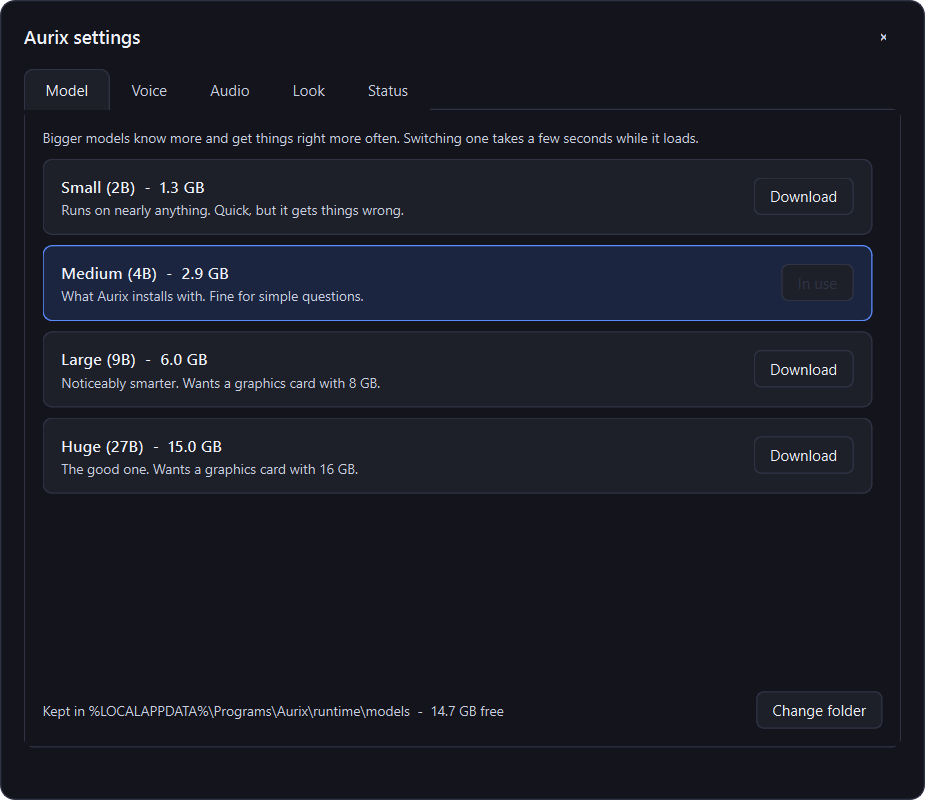
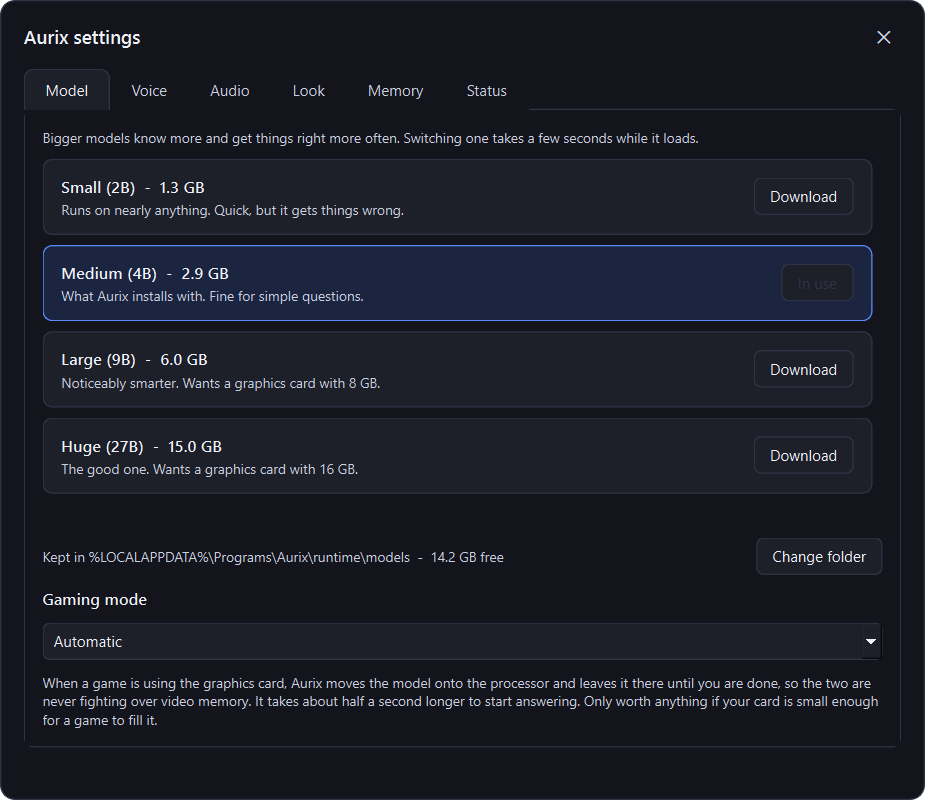
Tidy up for 0.3.3
A failed switch used to leave the flag saying the model was somewhere it
was not, so nothing would ever try to put it back. It reverts now and
the watcher has another go a few seconds later.

README covers fun mode, the memory and gaming mode, and the pictures are
regenerated so they show the tabs that actually exist.

shoot_docs said "Hey Jarvis" hardcoded, which would have put the wrong
wake word in the README - it reads it out of config now. It also points
the memory notes at a made up file first, because that script runs on a
machine that has been using Aurix and whatever it had learned about me
would have gone straight onto the internet.

diff --git a/aurix/brain.py b/aurix/brain.py
@@ -443,9 +443,20 @@ def use_the_card(wanted: bool) -> None:
     global _on_card
     if wanted == _on_card:
         return
+
+    was = _on_card
     _on_card = wanted
     print(f"  moving the model {'onto the card' if wanted else 'off the card'}")
-    restart()
+    try:
+        restart()
+    except Exception:
+        # restart() has already stopped the old server, so a failure here
+        # leaves nothing running. Put the flag back rather than let it claim
+        # the model is somewhere it is not - the watcher looks again in a few
+        # seconds, sees the mismatch and has another go, which is what gets it
+        # back on its feet if the problem was a momentary one.
+        _on_card = was
+        raise
 
 
 def restart() -> None:

diff --git a/README.md b/README.md
@@ -25,6 +25,10 @@ Sits in the system tray as a blue dot.
 It works out when you have actually finished talking instead of counting a
 second of quiet, so stopping to think mid-sentence no longer cuts you off.
 
+It has a personality, and a switch to turn it off. **Fun mode** is chatty and
+pleased to be asked; turn it off and answers go back to one or two flat
+sentences, which is quicker to hear. Both are on the Audio tab.
+
 As well as answering questions it can do a few things:
 
 - *"Play Take On Me"*, *"play the rock classics playlist"*, *"play the Rumours
@@ -48,6 +52,35 @@ can check rather than take on trust.
 ![Models](docs/settings-model.png)
 
 ![Voices](docs/settings-voice.png)
+
+## It remembers you
+
+Tell it something about yourself and it keeps it. Not the conversation - that
+is forgotten after a few minutes - but the handful of things worth knowing next
+week: your name, your dog, what you cannot stand, how you want it to behave.
+
+It decides what is worth keeping on its own, and you can read and change every
+word of it. The notes are plain text in `memory.txt` next to the settings, and
+the Memory tab shows you that same text to edit. There is a button to forget
+the lot.
+
+![Memory](docs/settings-memory.png)
+
+## Gaming mode
+
+A game and a language model both want video memory, and whichever asks second
+loses - either the model will not load, or your textures get pushed out to
+system memory and the game stutters.
+
+So Aurix gets out of the way. While something else is using the graphics card,
+the model runs on the processor instead and stays there until you are done. It
+costs about half a second longer before it starts answering, which the "hmm"
+mostly covers.
+
+It works this out by itself - the rule is whether what is left on the card would
+still fit the model, so it suits itself to your machine rather than to a number
+somebody picked. On the Model tab you can force it on or off instead. If your
+card is big enough that a game never fills it, this will never do anything.
 
 ## Building it
 
